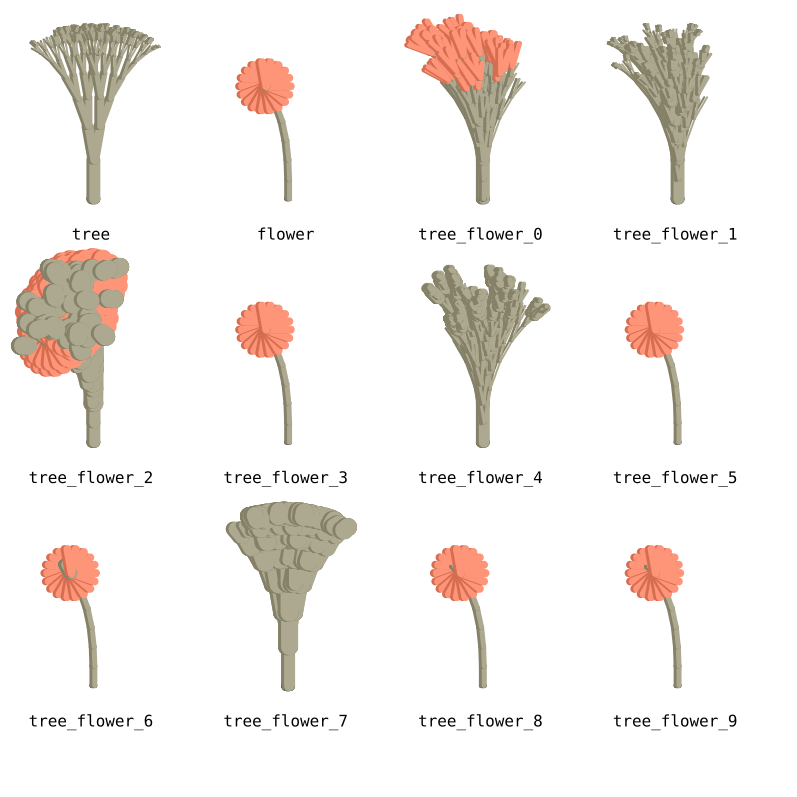
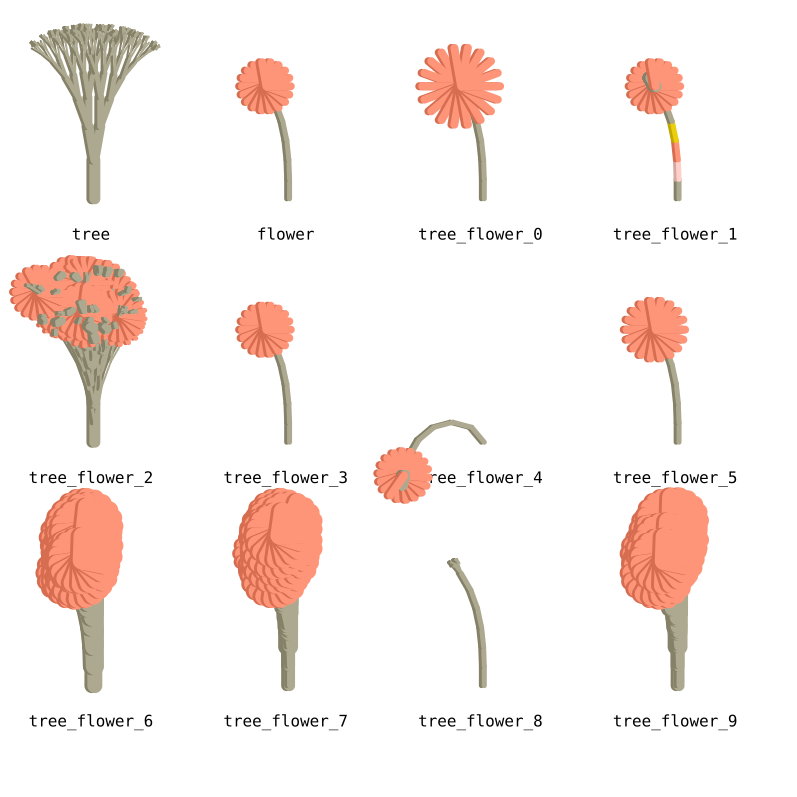
better picture

diff --git a/drawing/draw.py b/drawing/draw.py
@@ -12,11 +12,15 @@ def interpret_output(t, forward, turn, width, colour, highlight=True):
         t2 = copy_turtle(t)
         t2.setx(t.xcor() + 3)
         t.pencolor(darken(c))
+        t.pendown()
         t.left(turn)
         t.forward(forward)
+        t.penup()
+        t2.pendown()
         t2.pencolor(c)
         t2.left(turn)
         t2.forward(forward)
+        t2.penup()
         return t
     except:
         return None
@@ -46,8 +50,6 @@ def draw_from_function(func, start=(0, 0), incremental=True):
     if not incremental:
         turtle.getscreen().update()
         time.sleep(1)
-    for t in turtle.getscreen().turtles():
-        del t
 
 
 def draw_highlight(t, forward, turn, width, colour):

diff --git a/drawing/util.py b/drawing/util.py
@@ -7,6 +7,7 @@ pallette = {0: "#ada990", 1: "#ffd0ca", 2: "#fe9578", 3: "#eacf0e", 4: "#507667"
 def copy_turtle(t):
     t = t.clone()
     t.hideturtle()
+    t.penup()
     return t
 
 
@@ -14,7 +15,6 @@ def init_turtle(start):
     t = turtle.Turtle()
     t.penup()
     t.setpos(start)
-    t.pendown()
     t.left(90)
     t.width(5)
     t.hideturtle()
@@ -23,7 +23,7 @@ def init_turtle(start):
 
 def prune_turtles(turtles):
     random.shuffle(turtles)
-    return turtles[:36]
+    return turtles[:30]
 
 
 def lookup_colour(colour):

diff --git a/main.py b/main.py
@@ -25,3 +25,4 @@ if __name__ == "__main__":
         # clear_screen()
         # fill_background()
         draw_from_function(func, start=start, incremental=True)
+    time.sleep(2)
